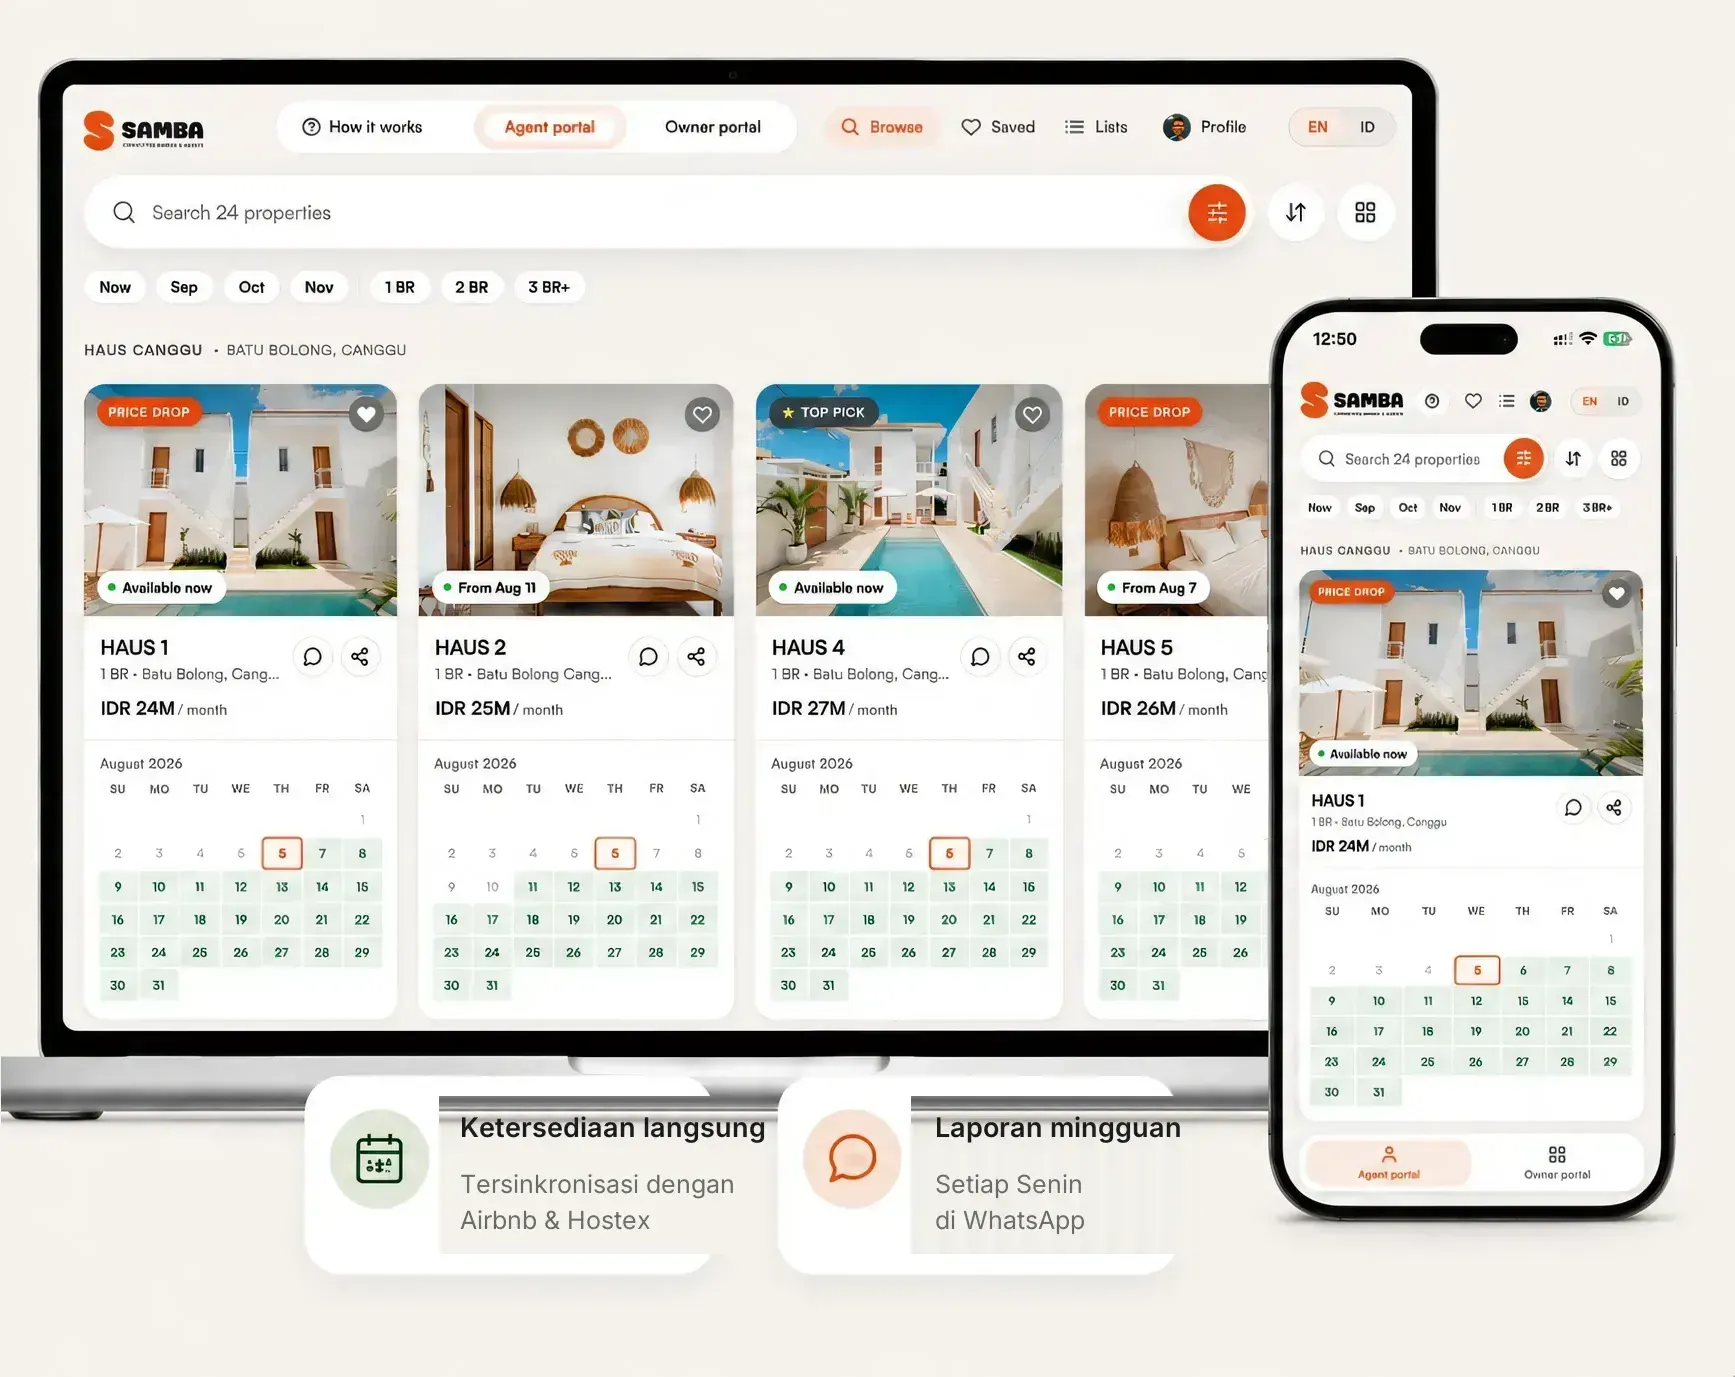
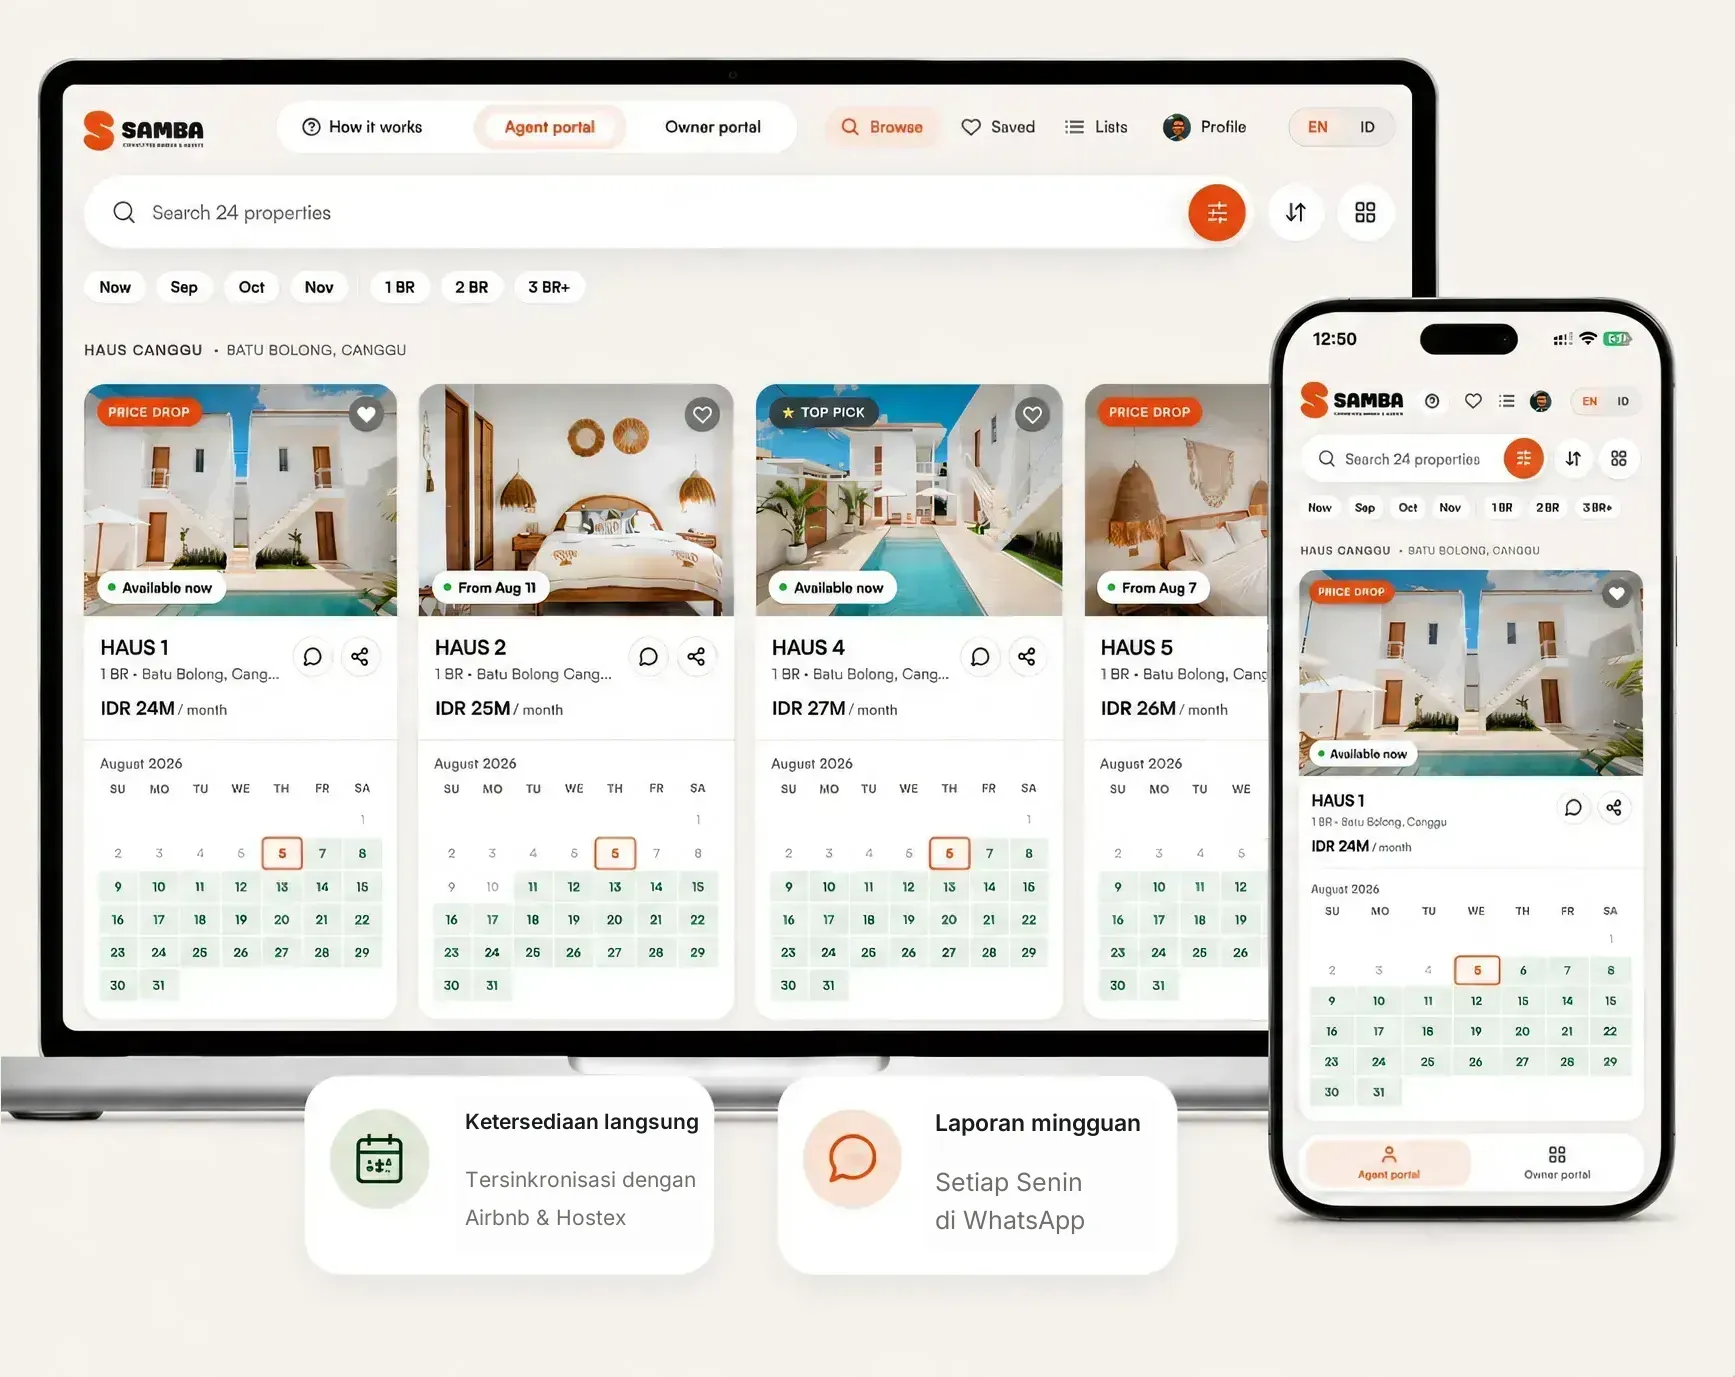
Fix ID hero chips; drop the redundant Maya stats line
The Indonesian hero variant's chip patch overflowed the card bounds
and painted over the second card; rebuilt from the clean EN file with
measured card geometry and auto-fitted type. The stats line under the
Maya section duplicated the dark stat band and is removed; the live-
stats script now only feeds the band's villa count.

Changed region(s): [[0.249, 0.7807, 0.4357, 0.9056], [0.5291, 0.7807, 0.6847, 0.8744], [0.996, 0.9993, 1.0, 1.0]]

diff --git a/public/list-property.html b/public/list-property.html
@@ -206,7 +206,6 @@ body {
 .maya-point svg { width: 20px; height: 20px; color: var(--accent); flex-shrink: 0; margin-top: 2px; }
 .maya-point-title { font-size: .95rem; font-weight: 700; letter-spacing: -.01em; }
 .maya-point-text { font-size: .85rem; color: var(--muted); line-height: 1.6; margin-top: 2px; }
-.maya-stats { margin-top: 26px; font-size: .8rem; color: var(--subtle); font-weight: 500; }
 .maya-art img { width: 100%; height: auto; display: block; border-radius: 14px; }
 @media (max-width: 860px) {
   .maya-inner { grid-template-columns: 1fr; gap: 36px; padding: 52px 16px; }
@@ -447,7 +446,6 @@ body {
           <div class="maya-point-text">Every Monday, Maya sends your villa's week to your WhatsApp: agent views, client shares and enquiries at a glance.</div>
         </div>
       </div>
-      <div class="maya-stats"><span id="stat-agents">300+</span> rental agents · <span id="stat-shares">85</span> client shares last month · 0% commission</div>
     </div>
     <div class="maya-art">
       <img src="/img-maya-broadcast-w.webp" data-id-src="/img-maya-broadcast-w-id.webp" width="1440" height="960" loading="lazy" alt="Maya's daily availability broadcast fanning out to Bali rental agents on WhatsApp">
@@ -596,9 +594,8 @@ body {
     const r = await fetch('/api/home-stats');
     if (!r.ok) return;
     const d = await r.json();
-    if (d.properties) document.getElementById('stat-villas').textContent = d.properties;
-    if (d.agents) document.getElementById('stat-agents').textContent = d.agents;
-    if (d.shares) document.getElementById('stat-shares').textContent = d.shares;
+    const villas = document.getElementById('stat-villas');
+    if (d.properties && villas) villas.textContent = d.properties;
   } catch {}
 })();
 
